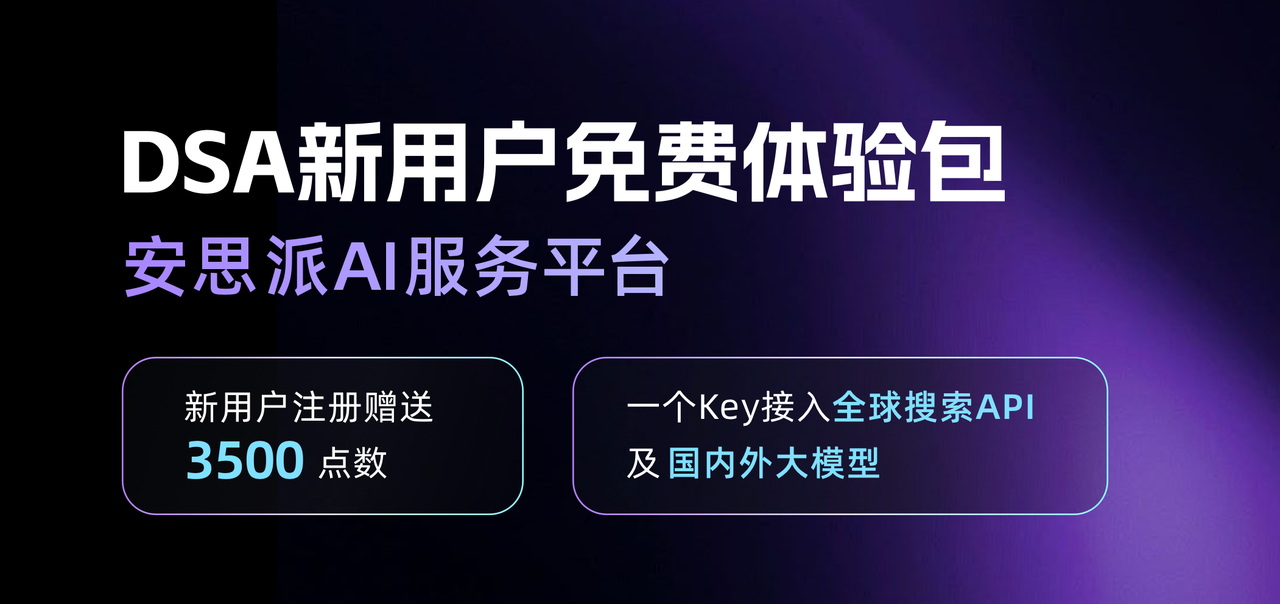
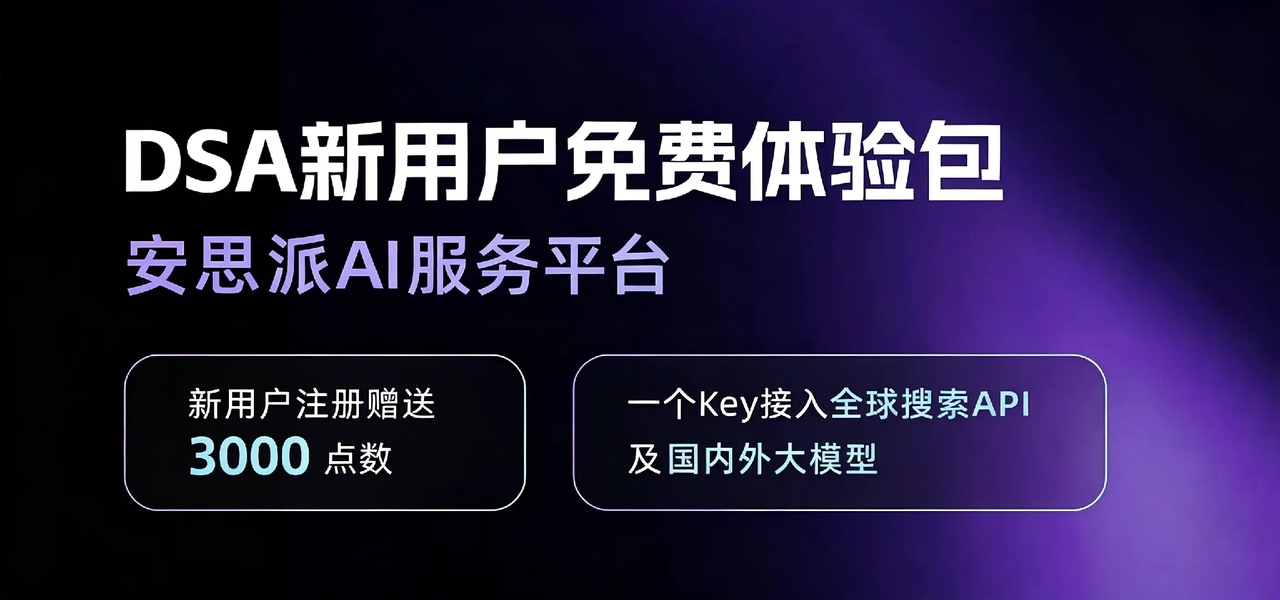
Update Anspire info (#2033)
* update anspire info

* update anspire for web link

* Update anspire info

---------

Pull request: Update Anspire info
## PR Type

- [ ] fix
- [ ] feat
- [ ] refactor
- [x] docs
- [ ] chore
- [ ] test

## Background And Problem

Anspire活动信息有更新，需更新 README 内容。
影响范围：仅文档层面，不影响代码运行逻辑与线上功能。
触发场景：新开发者查阅项目说明、外部用户了解项目能力时。

## Scope Of Change

仅修改 2 个 文件，无代码逻辑变更。
文件总数 / 变更行数：2 file changed, XX insertions(+), XX deletions(-)
文件清单：
/README.md
/docs/assets/anspire.png

## Issue Link

无 Issue，本次为文档维护性更新。
验收标准：README 内容准确完整，排版清晰，项目介绍、快速开始、目录结构等关键信息无遗漏

## Verification Commands And Results

纯文档变更，无代码执行验证项。
关键输出 / 结论：
当前 Head CI：ai-governance:pass / backend-gate:pass / docker-build:pass / web-gate:pass
当前状态：全部通过（pass），Head CI 全部为 pass。

## Visual Evidence (if applicable)

截图链接：不适用，纯文本文档变更
前后对比：不适用
不适用原因：
本次仅修改 README.md 纯文本文档，不涉及 Web UI、报告渲染或界面展示变更，无需截图验证。
可通过 GitHub 仓库首页直接预览 README 渲染效果进行核验。

## Compatibility And Risk

本 PR 未变更 provider/model/base URL、运行时配置清理迁移语义；历史配置保持不变；回滚方式为 revert 本提交。
兼容性影响：None
潜在风险：None（纯文档变更，不影响任何运行时行为）

## Rollback Plan
直接回滚本次提交即可，无额外配置或数据迁移需要处理。

## EXTRACT_PROMPT Change (if applicable)
不适用，本次 PR 未涉及 EXTRACT_PROMPT 相关修改。

## Checklist

- [x] 本 PR 有明确动机和业务价值 / This PR has a clear motivation and value
- [x] 已提供可复现的验证命令与结果 / Reproducible verification commands and results are included
- [x] 已评估兼容性与风险 / Compatibility and risk have been assessed
- [x] 已提供回滚方案 / A rollback plan is provided
[…]

diff --git a/README.md b/README.md
@@ -81,7 +81,7 @@
 
 | Secret 名称 | 说明 | 必填 |
 |------------|------|:----:|
-| `ANSPIRE_API_KEYS` | [Anspire](https://open.anspire.cn/dsa?share_code=QFBC0FYC) API Key，一Key同时启用全球热门大模型和联网搜索，本项目新用户提供35元等额的免费额度（GLM5.2、GPT等模型特惠中） | **推荐** |
+| `ANSPIRE_API_KEYS` | [Anspire](https://open.anspire.cn/dsa?share_code=QFBC0FYC) API Key，一Key同时启用全球热门大模型和联网搜索，本项目新用户提供30元等额的免费额度（GLM5.2、GPT等模型特惠中） | **推荐** |
 | `AIHUBMIX_KEY` | [AIHubMix](https://aihubmix.com/?aff=CfMq) API Key，一Key切换使用全系模型，无需科学上网，本项目可享 10% 优惠 | **推荐** |
 | `GEMINI_API_KEY` | Google Gemini API Key | 可选 |
 | `ANTHROPIC_API_KEY` | Anthropic Claude API Key | 可选 |
@@ -115,7 +115,7 @@
 
 | Secret 名称 | 说明 | 必填 |
 |------------|------|:----:|
-| `ANSPIRE_API_KEYS` | [Anspire AI Search](https://open.anspire.cn/dsa?share_code=QFBC0FYC)：汇聚全球舆情信息，适配A股、美股、港股等新闻和舆情检索；同一Key可复用大模型服务，本项目新用户提供免费35元等额的免费点数 | **推荐** |
+| `ANSPIRE_API_KEYS` | [Anspire AI Search](https://open.anspire.cn/dsa?share_code=QFBC0FYC)：汇聚全球舆情信息，适配A股、美股、港股等新闻和舆情检索；同一Key可复用大模型服务，本项目新用户提供免费30元等额的免费点数 | **推荐** |
 | `SERPAPI_API_KEYS` | [SerpAPI](https://serpapi.com/baidu-search-api?utm_source=github_daily_stock_analysis)：搜索引擎结果补强，适合实时金融新闻 | **推荐** |
 | `TAVILY_API_KEYS` | [Tavily](https://tavily.com/)：通用新闻搜索 API | 可选 |
 | `BOCHA_API_KEYS` | [博查搜索](https://open.bocha.cn/)：中文搜索优化，支持 AI 摘要 | 可选 |